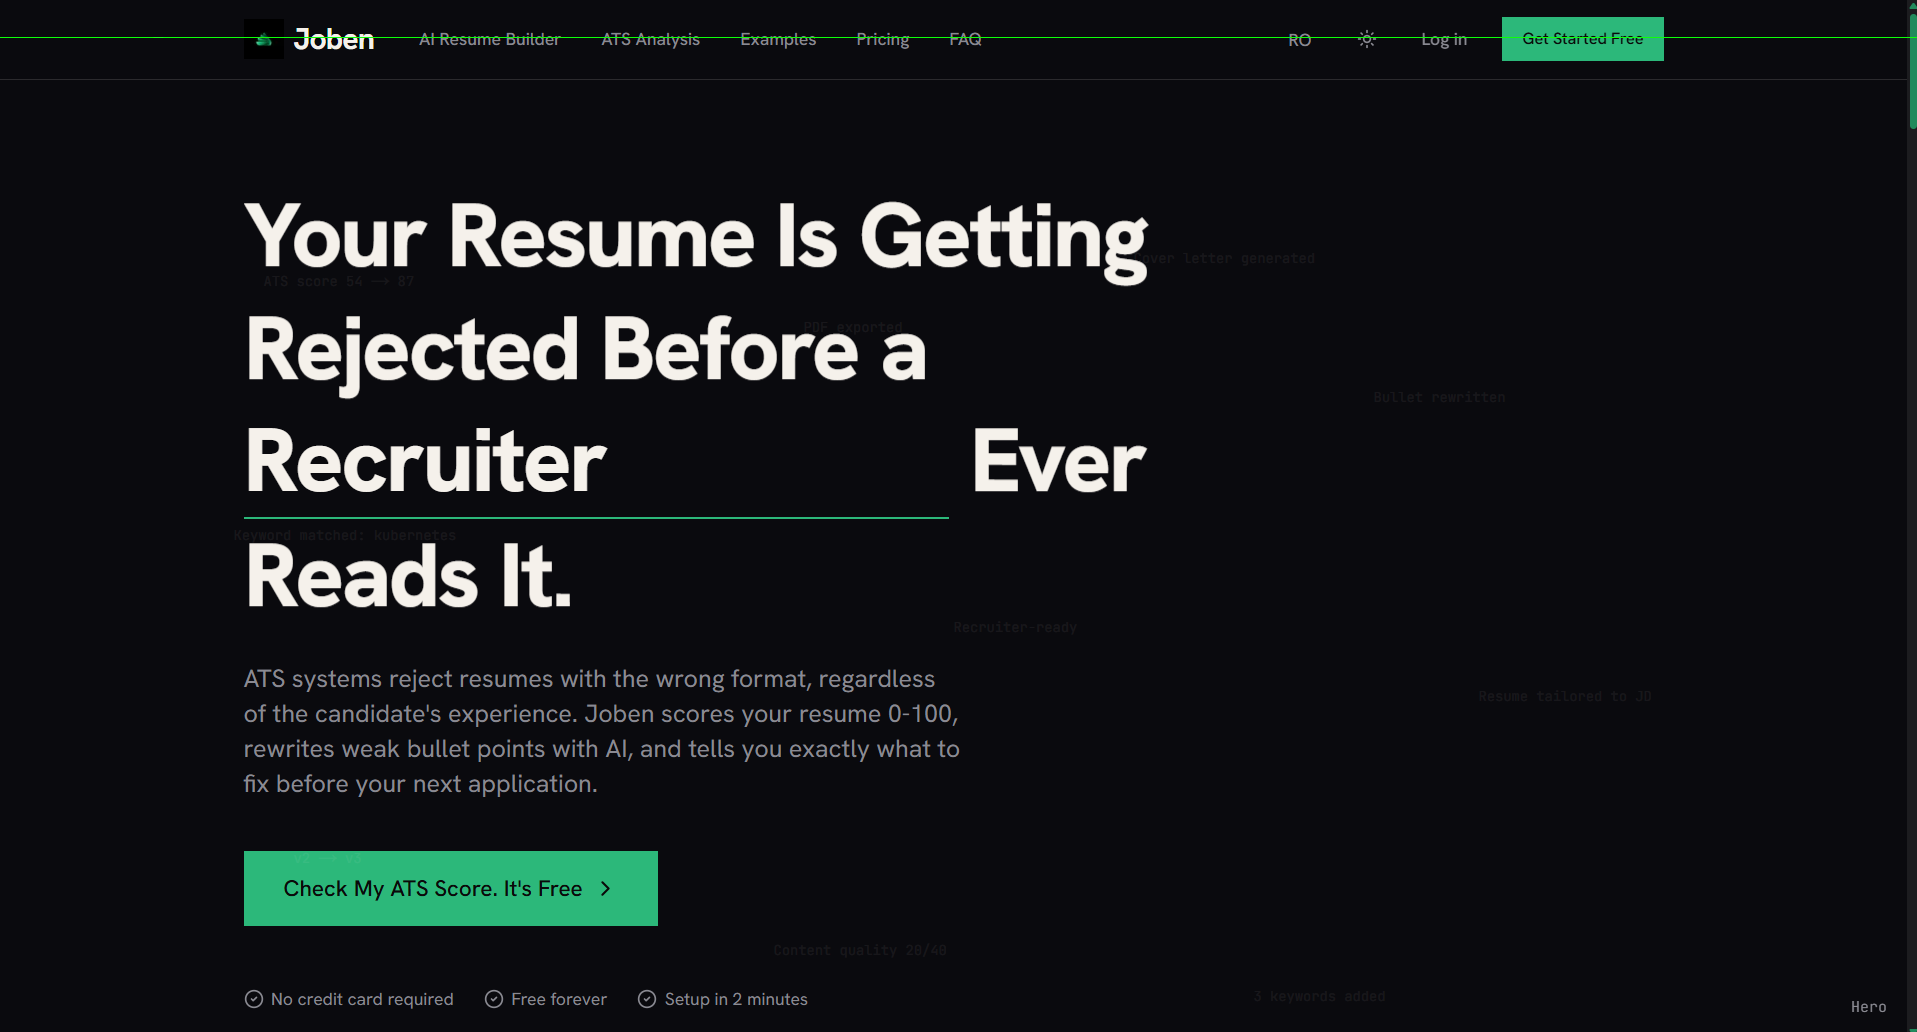
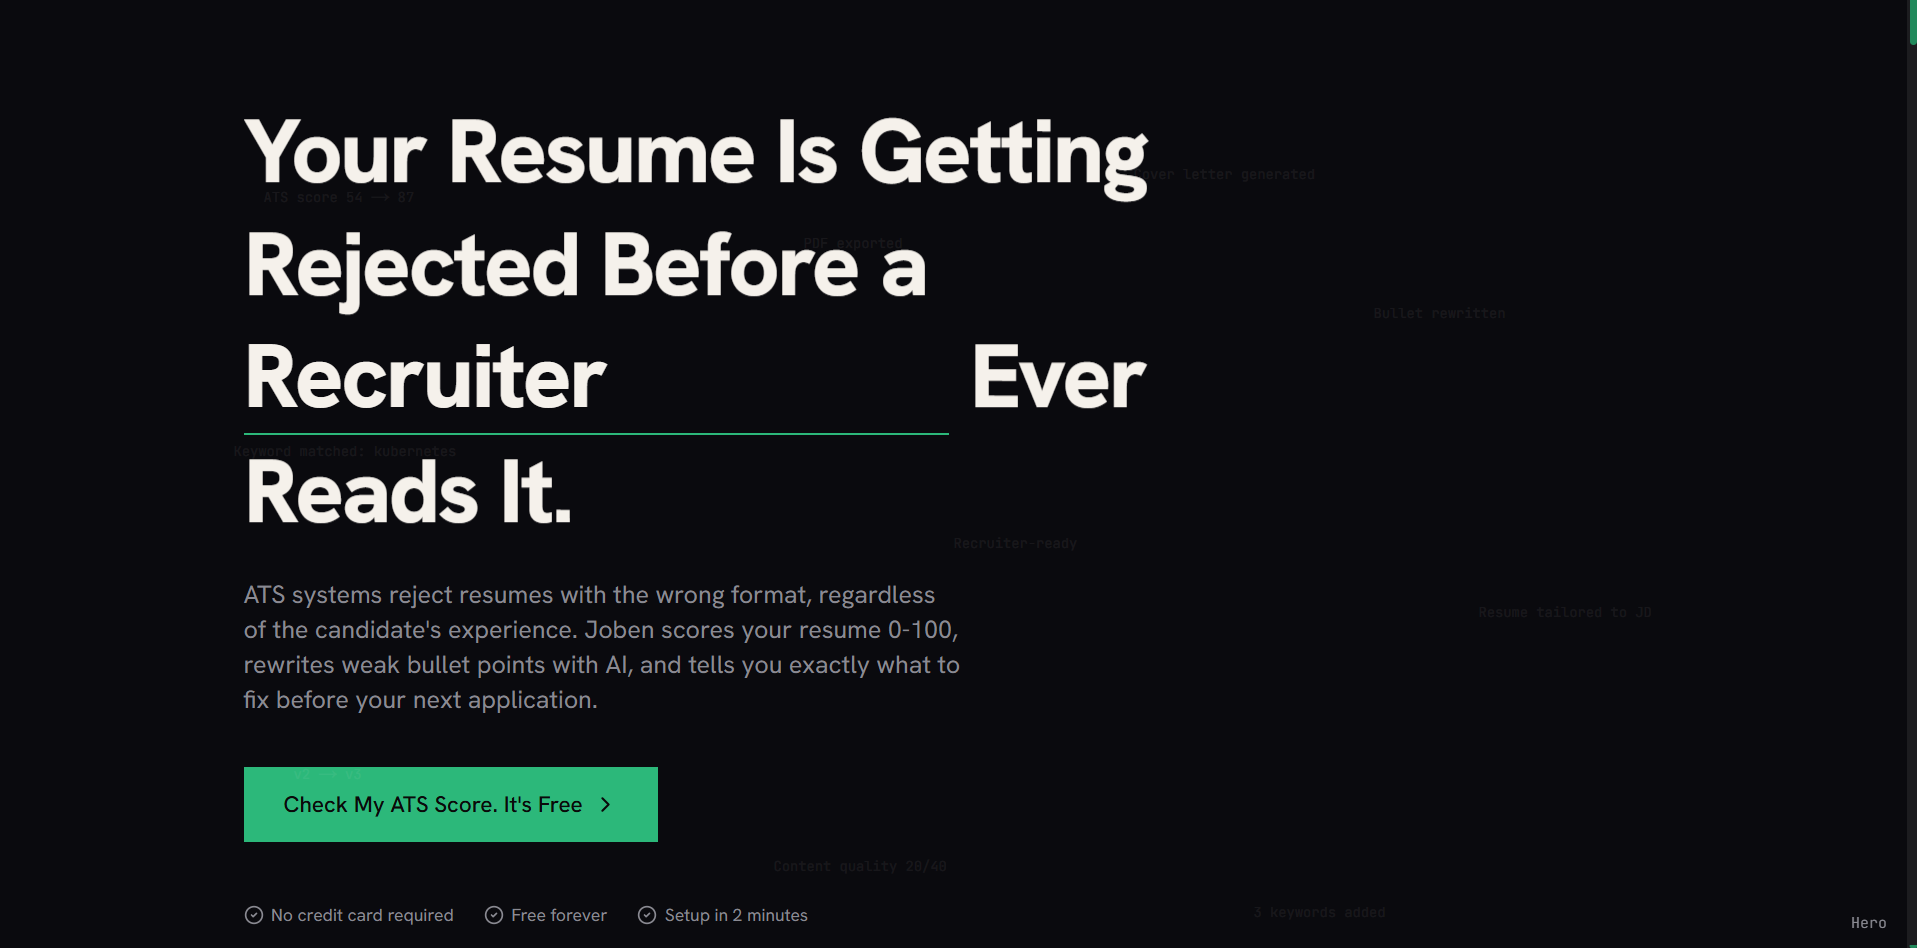
Page for every project, live links per project, crop Joben screenshot

diff --git a/src/app/work/[slug]/page.tsx b/src/app/work/[slug]/page.tsx
@@ -1,17 +1,18 @@
 import type { Metadata } from "next";
 import Image from "next/image";
+import Link from "next/link";
 import { notFound } from "next/navigation";
 import { Rule } from "@/components/motion";
 import { ProjectLine } from "@/components/spine";
 import { TechChip } from "@/components/tech-chip";
 import { RepoLink } from "@/components/work-card";
-import { cases, getCase } from "@/lib/cases";
-import { getProject } from "@/lib/projects";
+import { getCase } from "@/lib/cases";
+import { getProject, liveHost, projects } from "@/lib/projects";
 
 export const dynamicParams = false;
 
 export function generateStaticParams() {
-  return cases.map((c) => ({ slug: c.slug }));
+  return projects.map((p) => ({ slug: p.slug }));
 }
 
 type Props = { params: Promise<{ slug: string }> };
@@ -19,29 +20,55 @@ type Props = { params: Promise<{ slug: string }> };
 export async function generateMetadata({ params }: Props): Promise<Metadata> {
   const { slug } = await params;
   const p = getProject(slug);
-  return { title: `${p?.name ?? "Case study"} case study`, description: p?.oneLiner };
+  return { title: `${p?.name ?? "Project"}${getCase(slug) ? " case study" : ""}`, description: p?.oneLiner };
 }
 
-const blocks = [
-  { id: "problem", title: "The problem", key: "problem" },
-  { id: "missing", title: "What was broken or missing", key: "missing" },
-  { id: "investigation", title: "How I investigated", key: "investigation" },
-  { id: "decision", title: "What I built and decided", key: "decision" },
-  { id: "result", title: "Result", key: "result" },
-] as const;
+type Block = { id: string; title: string; paragraphs?: string[]; list?: { text: string; path?: string }[]; chips?: string[] };
 
-export default async function CasePage({ params }: Props) {
+export default async function ProjectPage({ params }: Props) {
   const { slug } = await params;
   const project = getProject(slug);
+  if (!project) notFound();
   const study = getCase(slug);
-  if (!project || !study) notFound();
+
+  const blocks: Block[] = study
+    ? [
+        { id: "problem", title: "The problem", paragraphs: study.problem },
+        { id: "missing", title: "What was broken or missing", paragraphs: study.missing },
+        { id: "investigation", title: "How I investigated", paragraphs: study.investigation },
+        { id: "decision", title: "What I built and decided", paragraphs: study.decision },
+        { id: "result", title: "Result", paragraphs: study.result },
+      ]
+    : [
+        { id: "problem", title: "The problem", paragraphs: [project.problem] },
+        { id: "decision", title: "What I built and decided", paragraphs: [project.decision] },
+        { id: "result", title: "Result", paragraphs: [project.result] },
+        { id: "code", title: "In the code", list: project.inCode },
+        { id: "scale", title: "Size", chips: project.scale },
+      ];
+
+  const meta = [
+    { k: "Role", v: project.role },
+    project.team && { k: "Team", v: project.team },
+    project.context && { k: "Context", v: project.context },
+  ].filter(Boolean) as { k: string; v: string }[];
 
   return (
-    <article className="container-site pb-24 pt-10 md:pt-16">
-      <p className="label mb-2">Case study / {project.year}</p>
+    <article className="container-site pb-16 pt-10 md:pb-24 md:pt-16">
+      <p className="label mb-2">
+        {study ? "Case study" : "Project"} / {project.year}
+      </p>
       <h1 className="display">{project.name}</h1>
       <p className="mt-3 max-w-[52ch] text-[18px] leading-snug text-muted">{project.oneLiner}</p>
-      {study.note && <p className="label mt-3 border border-line px-2 py-1">{study.note}</p>}
+
+      <dl className="mt-4 grid max-w-[720px] gap-2">
+        {meta.map((m) => (
+          <div key={m.k} className="grid gap-x-3 md:grid-cols-[96px_1fr]">
+            <dt className="label">{m.k}</dt>
+            <dd>{m.v}</dd>
+          </div>
+        ))}
+      </dl>
 
       <ul className="mt-3 flex flex-wrap gap-[6px]">
         {project.stack.map((t) => (
@@ -52,9 +79,10 @@ export default async function CasePage({ params }: Props) {
         <RepoLink p={project} />
         {project.live && (
           <a href={project.live} target="_blank" rel="noopener noreferrer" className="label hover:!text-fg">
-            Live site ↗
+            {liveHost(project.live)} ↗
           </a>
         )}
+        {project.internal && <span className="label">Internal tool</span>}
       </div>
 
       {project.preview && (
@@ -70,16 +98,43 @@ export default async function CasePage({ params }: Props) {
             <Rule />
             <p className="label pt-3">{String(i + 1).padStart(2, "0")}</p>
             <h2 className="title mb-2 mt-1">{b.title}</h2>
-            <div className="grid gap-2">
-              {study[b.key].map((t) => (
-                <p key={t} className="prose-site">
-                  {t}
-                </p>
-              ))}
-            </div>
+            {b.paragraphs && (
+              <div className="grid gap-2">
+                {b.paragraphs.map((t) => (
+                  <p key={t} className="prose-site">
+                    {t}
+                  </p>
+                ))}
+              </div>
+            )}
+            {b.list && (
+              <ul className="border-t border-line">
+                {b.list.map((c) => (
+                  <li key={c.text + c.path} className="border-b border-line py-2">
+                    <p className="prose-site">{c.text}</p>
+                    {c.path && <p className="label mt-1 break-all">{c.path}</p>}
+                  </li>
+                ))}
+              </ul>
+            )}
+            {b.chips && (
+              <ul className="flex flex-wrap gap-x-3 gap-y-1">
+                {b.chips.map((s) => (
+                  <li key={s} className="label !text-fg">
+                    {s}
+                  </li>
+                ))}
+              </ul>
+            )}
           </section>
         ))}
       </div>
+
+      <p className="mt-12 border-t border-line pt-3">
+        <Link href="/work" className="label hover:!text-fg">
+          ← All work
+        </Link>
+      </p>
     </article>
   );
 }

diff --git a/src/lib/projects.ts b/src/lib/projects.ts
@@ -43,7 +43,7 @@ export const projects: Project[] = [
     decision:
       "Postgres row level security decides access. The interface mirrors those rules and server actions check them again. A county changes zone only through one database function, and the map color comes from the zone table.",
     result:
-      "An invite-only intranet with 6 roles, 3 departments and a student platform. Schools and ambassador students follow their county when it changes zone. More than 20 ThinkUp people use it daily to assign tasks, create projects, follow ambassador students and give feedback.",
+      "An internal, invite-only intranet with 6 roles, 3 departments and a student platform. Schools and ambassador students follow their county when it changes zone. More than 20 ThinkUp people use it daily to assign tasks, create projects, follow ambassador students and give feedback.",
     inCode: [
       { text: "Permission rules are pure functions with tests.", path: "src/lib/permissions.ts" },
       { text: "The service role key lives in one server-only file.", path: "src/lib/supabase/admin.ts" },
@@ -77,6 +77,7 @@ export const projects: Project[] = [
     scale: ["16 commits", "11 migrations", "7 database test files", "PDF and DOCX up to 10 MB"],
     repo: priv,
     preview: "nyra.png",
+    live: "https://nyra.joben.eu",
     case: true,
   },
   {
@@ -129,7 +130,7 @@ export const projects: Project[] = [
     ],
     scale: ["156 commits", "16 migrations", "5 Edge Functions", "25 habits on 5 paths, 10 levels"],
     repo: { kind: "team", label: "Team repository", url: "https://github.com/Vladutziss/HSIC" },
-    live: "https://www.molted.eu",
+    live: "https://molted.eu",
     preview: "molted.png",
   },
   {
@@ -141,11 +142,11 @@ export const projects: Project[] = [
     team: "Team of 3, built with the ThinkUp team.",
     stack: ["Vite", "React", "TypeScript", "Tailwind", "shadcn/ui", "Supabase"],
     problem:
-      "ThinkUp Academy needed a public site and a way to receive and review membership applications, with staff managing the content themselves.",
+      "ThinkUp Academy needed a presentation site for think-up.academy and the infrastructure of its recruitment system, with staff managing the content themselves.",
     decision:
       "Recruitment opens and closes from settings, and the form stays hidden if the setting cannot be read. Admin sections are gated by role, and an Edge Function creates admin accounts.",
     result:
-      "A public site with departments, blog, partners and contact, and an admin dashboard for applications, members, content and recruitment status.",
+      "The presentation site of think-up.academy, with departments, blog, partners and contact. Behind it sits the recruitment system: an admin dashboard for applications, members, content and recruitment status.",
     inCode: [
       { text: "The application form fails closed when the recruitment setting cannot be read.", path: "src/pages/JoinUs.tsx" },
       { text: "Routes and navigation are gated by role.", path: "src/pages/admin" },
@@ -155,6 +156,7 @@ export const projects: Project[] = [
     scale: ["49 commits", "9 migrations"],
     repo: { kind: "public", label: "Repository", url: "https://github.com/teodor-vladconstantin/thinkup-gateway" },
     preview: "thinkup-gateway.png",
+    live: "https://think-up.academy",
   },
   {
     slug: "divein",
@@ -205,5 +207,8 @@ export const projects: Project[] = [
     preview: "airlife.png",
   },
 ];
+
+// Host shown as the link text, for example "joben.eu".
+export const liveHost = (url: string) => new URL(url).host.replace(/^www./, "");
 
 export const getProject = (slug: string) => projects.find((p) => p.slug === slug);

diff --git a/src/app/work/page.tsx b/src/app/work/page.tsx
@@ -1,12 +1,13 @@
 import type { Metadata } from "next";
+import Link from "next/link";
 import { PageTitle } from "@/components/section";
 import { TechChip } from "@/components/tech-chip";
 import { RepoLink, WorkCard } from "@/components/work-card";
-import { projects } from "@/lib/projects";
+import { liveHost, projects } from "@/lib/projects";
 
 export const metadata: Metadata = {
   title: "Work",
-  description: "Two case studies, Nyra and Joben, and five other projects: an intranet, a recruitment portal, a habit app, a youth platform and a shop.",
+  description: "Seven projects with a page each: two case studies, Nyra and Joben, and an intranet, a recruitment portal, a habit app, a youth platform and a shop.",
 };
 
 export default function Work() {
@@ -29,7 +30,11 @@ export default function Work() {
         <ul>
           {others.map((p) => (
             <li key={p.slug} className="grid gap-x-3 gap-y-1 border-b border-line py-3 md:grid-cols-12">
-              <h2 className="font-heading text-[22px] font-bold leading-none tracking-[-0.03em] md:col-span-3">{p.name}</h2>
+              <h2 className="font-heading text-[22px] font-bold leading-none tracking-[-0.03em] md:col-span-3">
+                <Link href={`/work/${p.slug}`} className="hover:!text-accent">
+                  {p.name}
+                </Link>
+              </h2>
               <div className="md:col-span-6">
                 <p className="max-w-[52ch] text-[16px] leading-snug">{p.oneLiner}</p>
                 <ul className="mt-2 flex flex-wrap gap-[6px]">
@@ -39,10 +44,13 @@ export default function Work() {
                 </ul>
               </div>
               <div className="flex flex-wrap items-start gap-x-3 gap-y-1 md:col-span-3 md:justify-end">
+                <Link href={`/work/${p.slug}`} className="label !text-fg">
+                  Details →
+                </Link>
                 <RepoLink p={p} />
                 {p.live && (
                   <a href={p.live} target="_blank" rel="noopener noreferrer" className="label hover:!text-fg">
-                    Live site ↗
+                    {liveHost(p.live)} ↗
                   </a>
                 )}
               </div>

diff --git a/src/app/work/[slug]/opengraph-image.tsx b/src/app/work/[slug]/opengraph-image.tsx
@@ -1,17 +1,16 @@
 import { ogSize, renderOg } from "@/lib/og";
-import { cases } from "@/lib/cases";
-import { getProject } from "@/lib/projects";
+import { getProject, projects } from "@/lib/projects";
 
 export const size = ogSize;
 export const contentType = "image/png";
 export const alt = "Case study";
 
 export function generateStaticParams() {
-  return cases.map((c) => ({ slug: c.slug }));
+  return projects.map((p) => ({ slug: p.slug }));
 }
 
 export default async function Image({ params }: { params: Promise<{ slug: string }> }) {
   const { slug } = await params;
   const p = getProject(slug);
-  return renderOg({ label: `Case study ${p?.year ?? ""}`.trim(), title: p?.name ?? "Case study" });
+  return renderOg({ label: `Project ${p?.year ?? ""}`.trim(), title: p?.name ?? "Case study" });
 }

diff --git a/src/components/work-card.tsx b/src/components/work-card.tsx
@@ -1,6 +1,6 @@
 import Image from "next/image";
 import Link from "next/link";
-import type { Project } from "@/lib/projects";
+import { liveHost, type Project } from "@/lib/projects";
 import { TechChip } from "./tech-chip";
 
 // Featured project: preview, name, one line, tools, links. The title link covers the card.
@@ -46,7 +46,7 @@ export function WorkCard({ p, priority = false, as: Heading = "h3" }: { p: Proje
         <RepoLink p={p} />
         {p.live && (
           <a href={p.live} target="_blank" rel="noopener noreferrer" className="label hover:!text-fg">
-            Live site ↗
+            {liveHost(p.live)} ↗
           </a>
         )}
       </div>

diff --git a/src/app/sitemap.ts b/src/app/sitemap.ts
@@ -1,13 +1,13 @@
 import type { MetadataRoute } from "next";
 import { indexedPosts } from "@/lib/blog";
-import { cases } from "@/lib/cases";
+import { projects } from "@/lib/projects";
 import { site } from "@/lib/site";
 
 export default function sitemap(): MetadataRoute.Sitemap {
   const pages = ["", "/work", "/philosophy", "/contact", "/blog"];
   return [
     ...pages.map((p) => ({ url: `${site.url}${p}` })),
-    ...cases.map((c) => ({ url: `${site.url}/work/${c.slug}` })),
+    ...projects.map((p) => ({ url: `${site.url}/work/${p.slug}` })),
     ...indexedPosts().map((p) => ({ url: `${site.url}/blog/${p.slug}`, lastModified: p.date })),
   ];
 }
